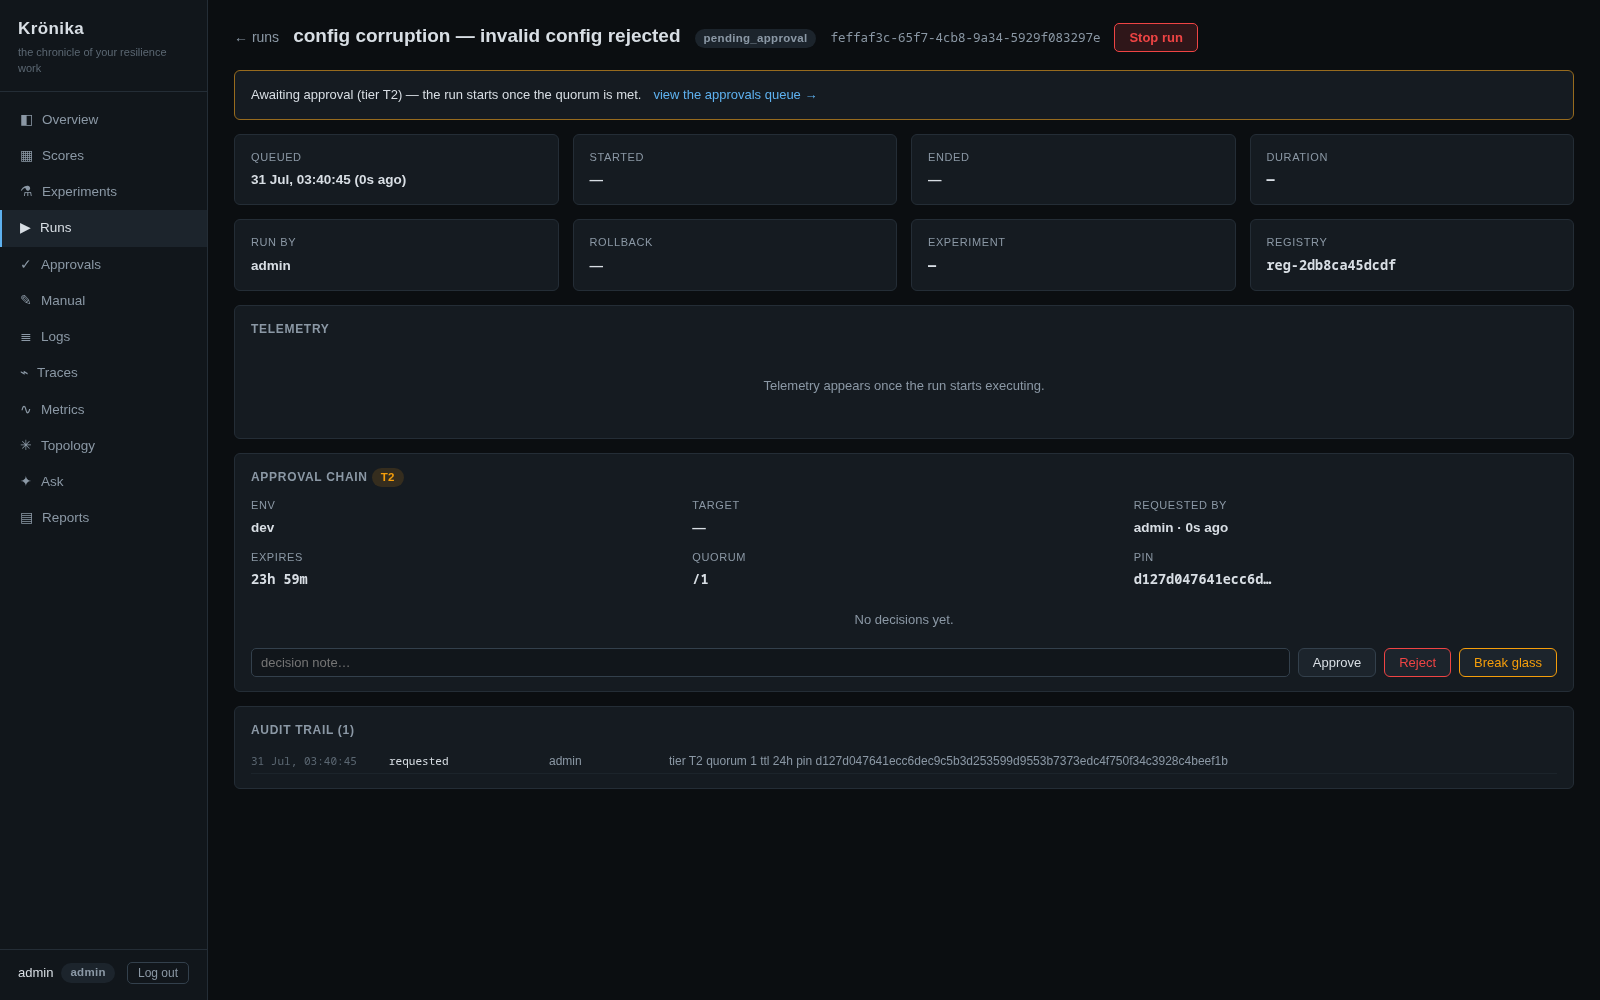
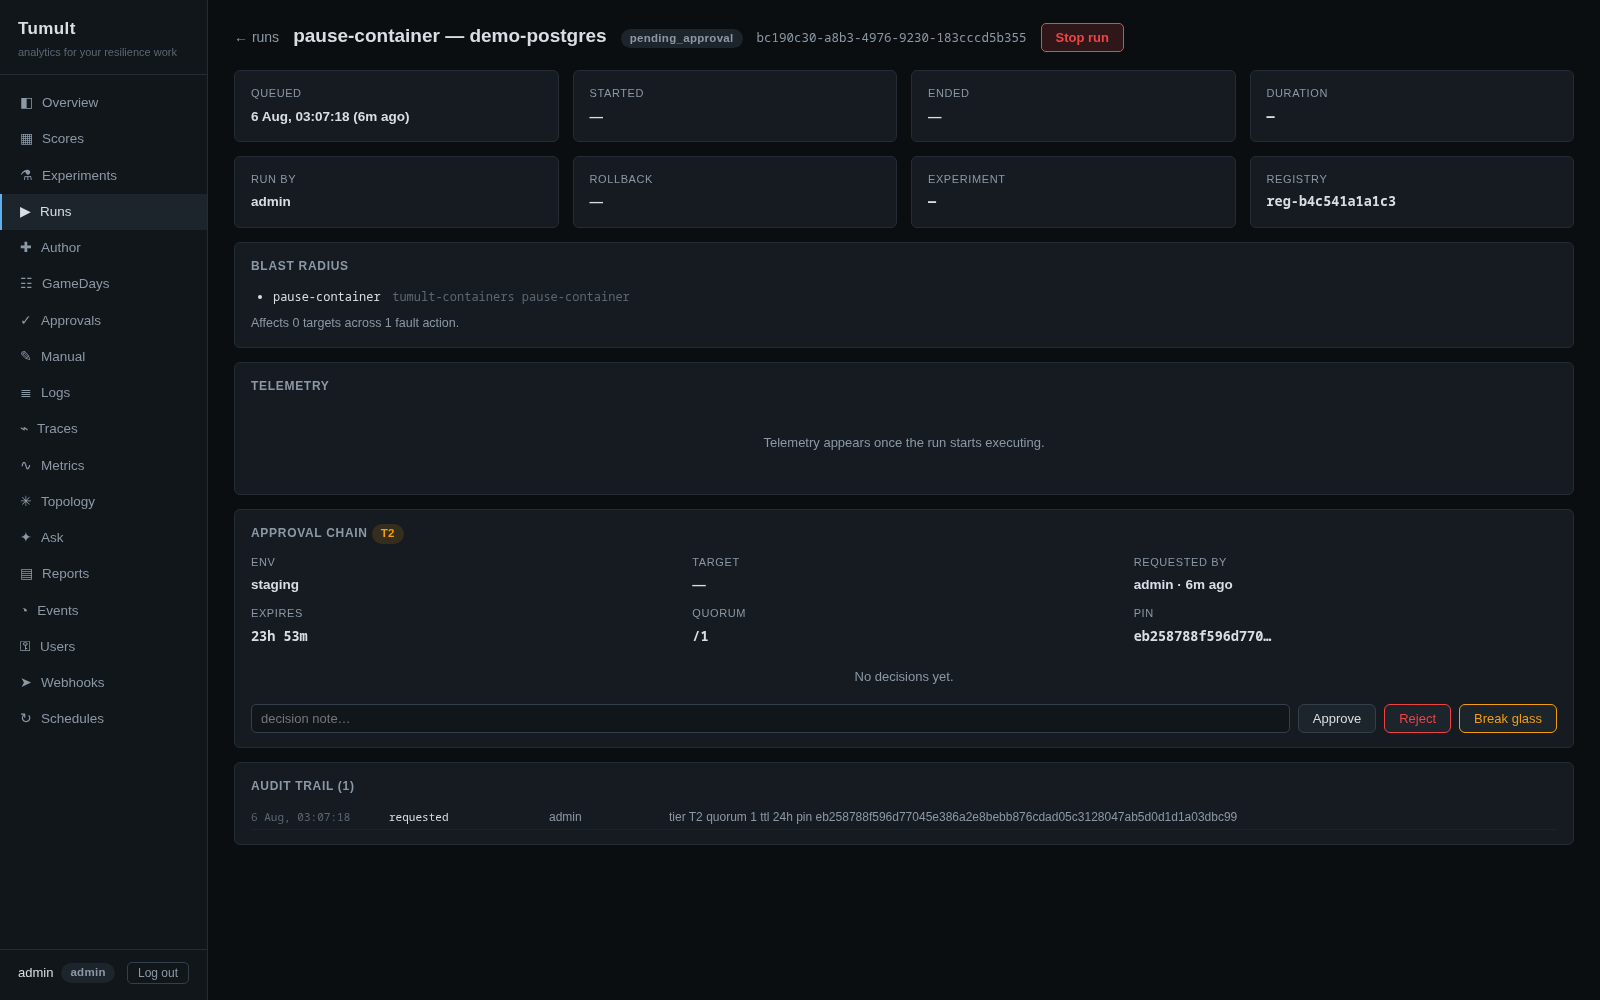
docs: recapture UI screenshots on the current SPA
All 13 docs/assets PNGs predated the current SPA (new nav: Author,
GameDays, Events, Webhooks, Users, Schedules; Halt all on Runs).
Recaptured every page on a seeded demo daemon (1600x1000, full-page for
the two run-detail shots) and added 8 new captures: author-catalog,
author-new, runs-stop-all, schedules, events, webhooks, users, gamedays.

The walkthrough gains an Operate the platform section for the new pages,
its prose is aligned with the new captures (bob-admin approver, gated-run
e-stop cancelled before start), and the README screenshot table now shows
the Author catalog and Runs/Halt-all pages.

Also fixes a crash found while capturing: /author broke with Svelte
each_key_duplicate when two plugins expose same-named actions in one
domain (tumult-containers/tumult-pumba pause-container); the each-block
now keys on plugin::name.

diff --git a/web/src/lib/components/CatalogBrowser.svelte b/web/src/lib/components/CatalogBrowser.svelte
@@ -50,7 +50,7 @@
           <tr><th>Action</th><th>Kind</th><th>Description</th><th></th></tr>
         </thead>
         <tbody>
-          {#each d.actions as a (a.name)}
+          {#each d.actions as a (`${a.plugin}::${a.name}`)}
             <tr class="clickable" onclick={() => use(a)}>
               <td class="mono">{a.name}</td>
               <td><span class="badge {a.kind === 'action' ? 'warn' : 'neutral'}">{a.kind}</span></td>

diff --git a/docs/guides/platform-walkthrough.md b/docs/guides/platform-walkthrough.md
@@ -7,8 +7,8 @@ nav_order: 22
 # Platform Walkthrough
 
 A click-through of the Tumult platform: sign in, register an
-experiment, run it behind an approval quorum, e-stop a second run mid-method,
-and generate the compliance evidence pack. Every screenshot below is the
+experiment, run it behind an approval quorum, e-stop a gated run, and
+generate the compliance evidence pack. Every screenshot below is the
 embedded web UI on the seeded demo stack — nothing is mocked.
 
 ## Start the demo stack
@@ -54,16 +54,28 @@ OTLP spans the engine emitted.
 
 Manual evidence covers what telemetry can't: game days, tabletops, vendor
 failovers. Records move draft → submitted → verified with reviewer ≠ enterer
-(the register below shows one record in each state; the verified one names
-`bob` as verifier), each transition appended to a hash-chained audit trail.
+(the register below shows a verified record with `bob-admin` as verifier),
+each transition appended to a hash-chained audit trail.
 
 ![Manual evidence register](../assets/manual-evidence.png)
 
 ## Author from the catalog
 
-The fault catalog and experiment scaffolding are available over the same
-API — the same code paths as the MCP `tumult_fault_catalog` /
-`tumult_scaffold_experiment` tools, with no MCP hop:
+The Author page browses the live fault catalog — every action and probe the
+mounted plugins expose, grouped by domain — and scaffolds a definition from
+any of them without leaving the UI.
+
+![Author page: the live plugin fault catalog](../assets/author-catalog.png)
+
+Picking an action opens the scaffolding wizard: title, target, the action's
+arguments, and an optional steady-state probe, then a generated TOON ready to
+validate and register.
+
+![Author wizard for a catalog action](../assets/author-new.png)
+
+The same catalog and scaffolding are available over the API — the same code
+paths as the MCP `tumult_fault_catalog` / `tumult_scaffold_experiment`
+tools, with no MCP hop:
 
 ```bash
 curl http://localhost:14318/api/authoring/catalog      # domains → actions → args
@@ -103,7 +115,7 @@ inputs, a 24h TTL, and single-use consumption at dispatch.
 ![Run parked awaiting approval — approval chain card with pin](../assets/run-pending-approval.png)
 
 Segregation of duties is enforced by the writer: the requester can never
-approve their own run. A second identity — `bob`, an approver — reviews the
+approve their own run. A second identity — `bob-admin` — reviews the
 pending request in the queue against its pin and records a decision note.
 
 ![Bob reviews the pending T2 run in the approvals queue](../assets/approvals-queue-review.png)
@@ -112,34 +124,38 @@ pending request in the queue against its pin and records a decision note.
 
 Once approved, the run dispatches onto the worker pool and its page polls to
 terminal. The detail page is the whole story on one screen: the telemetry
-waterfall as loopback spans land (this definition is designed to deviate —
-the rollback restores the known-good config), the consumed approval chain
-with bob's note, and the per-run hash-chained audit trail from `requested`
-through `approved`, `dispatch_queued`, `started`, `deviated`.
+waterfall as loopback spans land (here the steady-state probe failed, so the
+run aborted and the rollback restored the target), the consumed approval
+chain with bob-admin's note, and the per-run hash-chained audit trail from
+`requested` through `approved`, `dispatch_queued`, `consumed`, `started`,
+`aborted`.
 
 ![Run detail: waterfall, consumed approval chain, audit trail](../assets/run-detail-waterfall.png)
 
-## E-stop mid-method
+## E-stop a gated run
 
-A second run — a rolling-sleep definition — is stopped mid-method. The
-two-step e-stop is deliberate: the first click arms, the confirm halts the
-run before the next activity and unwinds rollbacks.
+A second gated run — the pause-container definition parked in
+`pending_approval` — is stopped before it ever dispatches. The two-step
+e-stop is deliberate: the first click arms, the confirm halts the run before
+the next activity and unwinds rollbacks.
 
 ![Two-step e-stop confirmation](../assets/run-estop-confirm.png)
 
-The result: state `aborted`, the fault span cut short (the long red action
-span), `stop_requested` attributed to the operator in the audit trail, and
-rollback completed — the marker file the fault created is gone.
+The result: state `aborted`, "cancelled before start", `stop_requested`
+attributed to the operator in the audit trail, and the approval request
+closed out — no approval can resurrect a stopped run. The Runs page also
+carries a global two-step **Halt all** for stopping everything active at
+once.
 
-![Aborted run: halted fault span, rollback completed](../assets/run-estop-aborted.png)
+![Aborted run: cancelled before start, stop_requested audited](../assets/run-estop-aborted.png)
 
 ## Evidence pack
 
 Finally, the compliance story: R1 executive digests, R2 evidence packs
 (DORA/NIS2/ISO 27001/SOC 2), and R3 game-day reports are generated from the
 store as document-controlled PDFs. The R2 pack includes the approval chain of
-every gated run in the window (SOC 2 CC8.1) — the two runs above, bob's
-approvals included.
+every gated run in the window (SOC 2 CC8.1) — the two runs above,
+bob-admin's approval included.
 
 Reports respect the same per-user environment scopes as the rest of Tumult.
 A user scoped to specific environments generates digests, evidence packs and
@@ -151,6 +167,43 @@ only (a scoped user gets a 404, as with out-of-scope traces). Unscoped
 users see and generate everything, exactly as before.
 
 ![Reports page with a generated R2 evidence pack](../assets/reports-evidence-pack.png)
+
+## Operate the platform
+
+The remaining nav pages cover day-to-day operation. The Runs page lists
+every run with state filters and the global **Halt all** — the same two-step
+arm/confirm as the per-run e-stop, stopping everything active in one shot.
+
+![Runs page with state filters and Halt all](../assets/runs-stop-all.png)
+
+Schedules fire registered definitions on an interval through the normal run
+path — production-classified environments still park for approval.
+
+![Schedules page](../assets/schedules.png)
+
+The events feed is the audit spine across runs: every `requested`,
+`approved`, `started`, `passed`, `aborted`, and `stop_requested`, newest
+first, attributed to the actor (including schedules).
+
+![Events feed](../assets/events.png)
+
+Webhooks push those same events to external sinks, each payload signed
+`X-Tumult-Signature` (HMAC-SHA256) with a per-hook secret shown once at
+creation.
+
+![Webhooks page](../assets/webhooks.png)
+
+Users manages accounts and revocable `kro_` API tokens under
+`viewer < operator < approver < admin` roles, with optional per-environment
+scopes.
+
+![Users and API tokens](../assets/users.png)
+
+GameDays group experiments into scored campaigns — register the campaign
+TOON, launch it, and the child runs execute in order under the same approval
+tiers.
+
+![GameDays page](../assets/gamedays.png)
 
 ## Where next
 

diff --git a/CHANGELOG.md b/CHANGELOG.md
@@ -7,6 +7,13 @@ The format is based on [Keep a Changelog](https://keepachangelog.com/en/1.0.0/).
 ## [Unreleased]
 
 ### Added
+- Recaptured all thirteen `docs/assets/` screenshots on the current SPA
+  (new nav: Author, GameDays, Events, Webhooks, Users, Schedules; Halt all
+  on Runs) and added eight new captures: `author-catalog.png`,
+  `author-new.png`, `runs-stop-all.png`, `schedules.png`, `events.png`,
+  `webhooks.png`, `users.png`, `gamedays.png`. The platform walkthrough
+  gains an "Operate the platform" section covering them, and the README
+  screenshot table references the Author and Runs pages.
 - Web UI `/users` admin page over the existing admin API (`/api/users*`):
   create users (generated one-time password shown once), change roles, edit
   environment scopes, reset passwords, disable/re-enable accounts; admin-only
@@ -160,6 +167,11 @@ The format is based on [Keep a Changelog](https://keepachangelog.com/en/1.0.0/).
   `signoz-standalone` ClickHouse.
 
 ### Fixed
+- `/author` catalog page crashed with Svelte `each_key_duplicate` whenever
+  two mounted plugins exposed same-named actions in one domain (e.g.
+  `tumult-db-mysql`/`tumult-db-postgres` `kill-connections`,
+  `tumult-containers`/`tumult-pumba` `pause-container`) — the each-block now
+  keys on `plugin::name`.
 - docs: follow-up review pass — the scheduling guide now describes the
   shipped schedules feature (JSON API, web UI page, 60s interval floor,
   audited `schedule:<name>` runs, `TUMULTD_SCHEDULE_TICK_S`), QUICKSTART

diff --git a/README.md b/README.md
@@ -185,6 +185,7 @@ register → approve → run → e-stop → evidence pack) is in the
 |---|---|
 | ![Overview dashboard — experiment KPIs, pass and deviation rates, fault breakdown](docs/assets/overview-dashboard.png) | ![Org rollup scores — company score with coverage and a domain treemap](docs/assets/scores-rollup.png) |
 | ![Run detail — live telemetry waterfall, consumed approval chain, hash-chained audit trail](docs/assets/run-detail-waterfall.png) | ![Approvals queue — an approver reviews a pending T2 run with its content-hash pin](docs/assets/approvals-queue-review.png) |
+| ![Author — the live plugin fault catalog, one click to scaffold an experiment](docs/assets/author-catalog.png) | ![Runs — state filters and the two-step Halt all e-stop](docs/assets/runs-stop-all.png) |
 
 ## CLI
 
